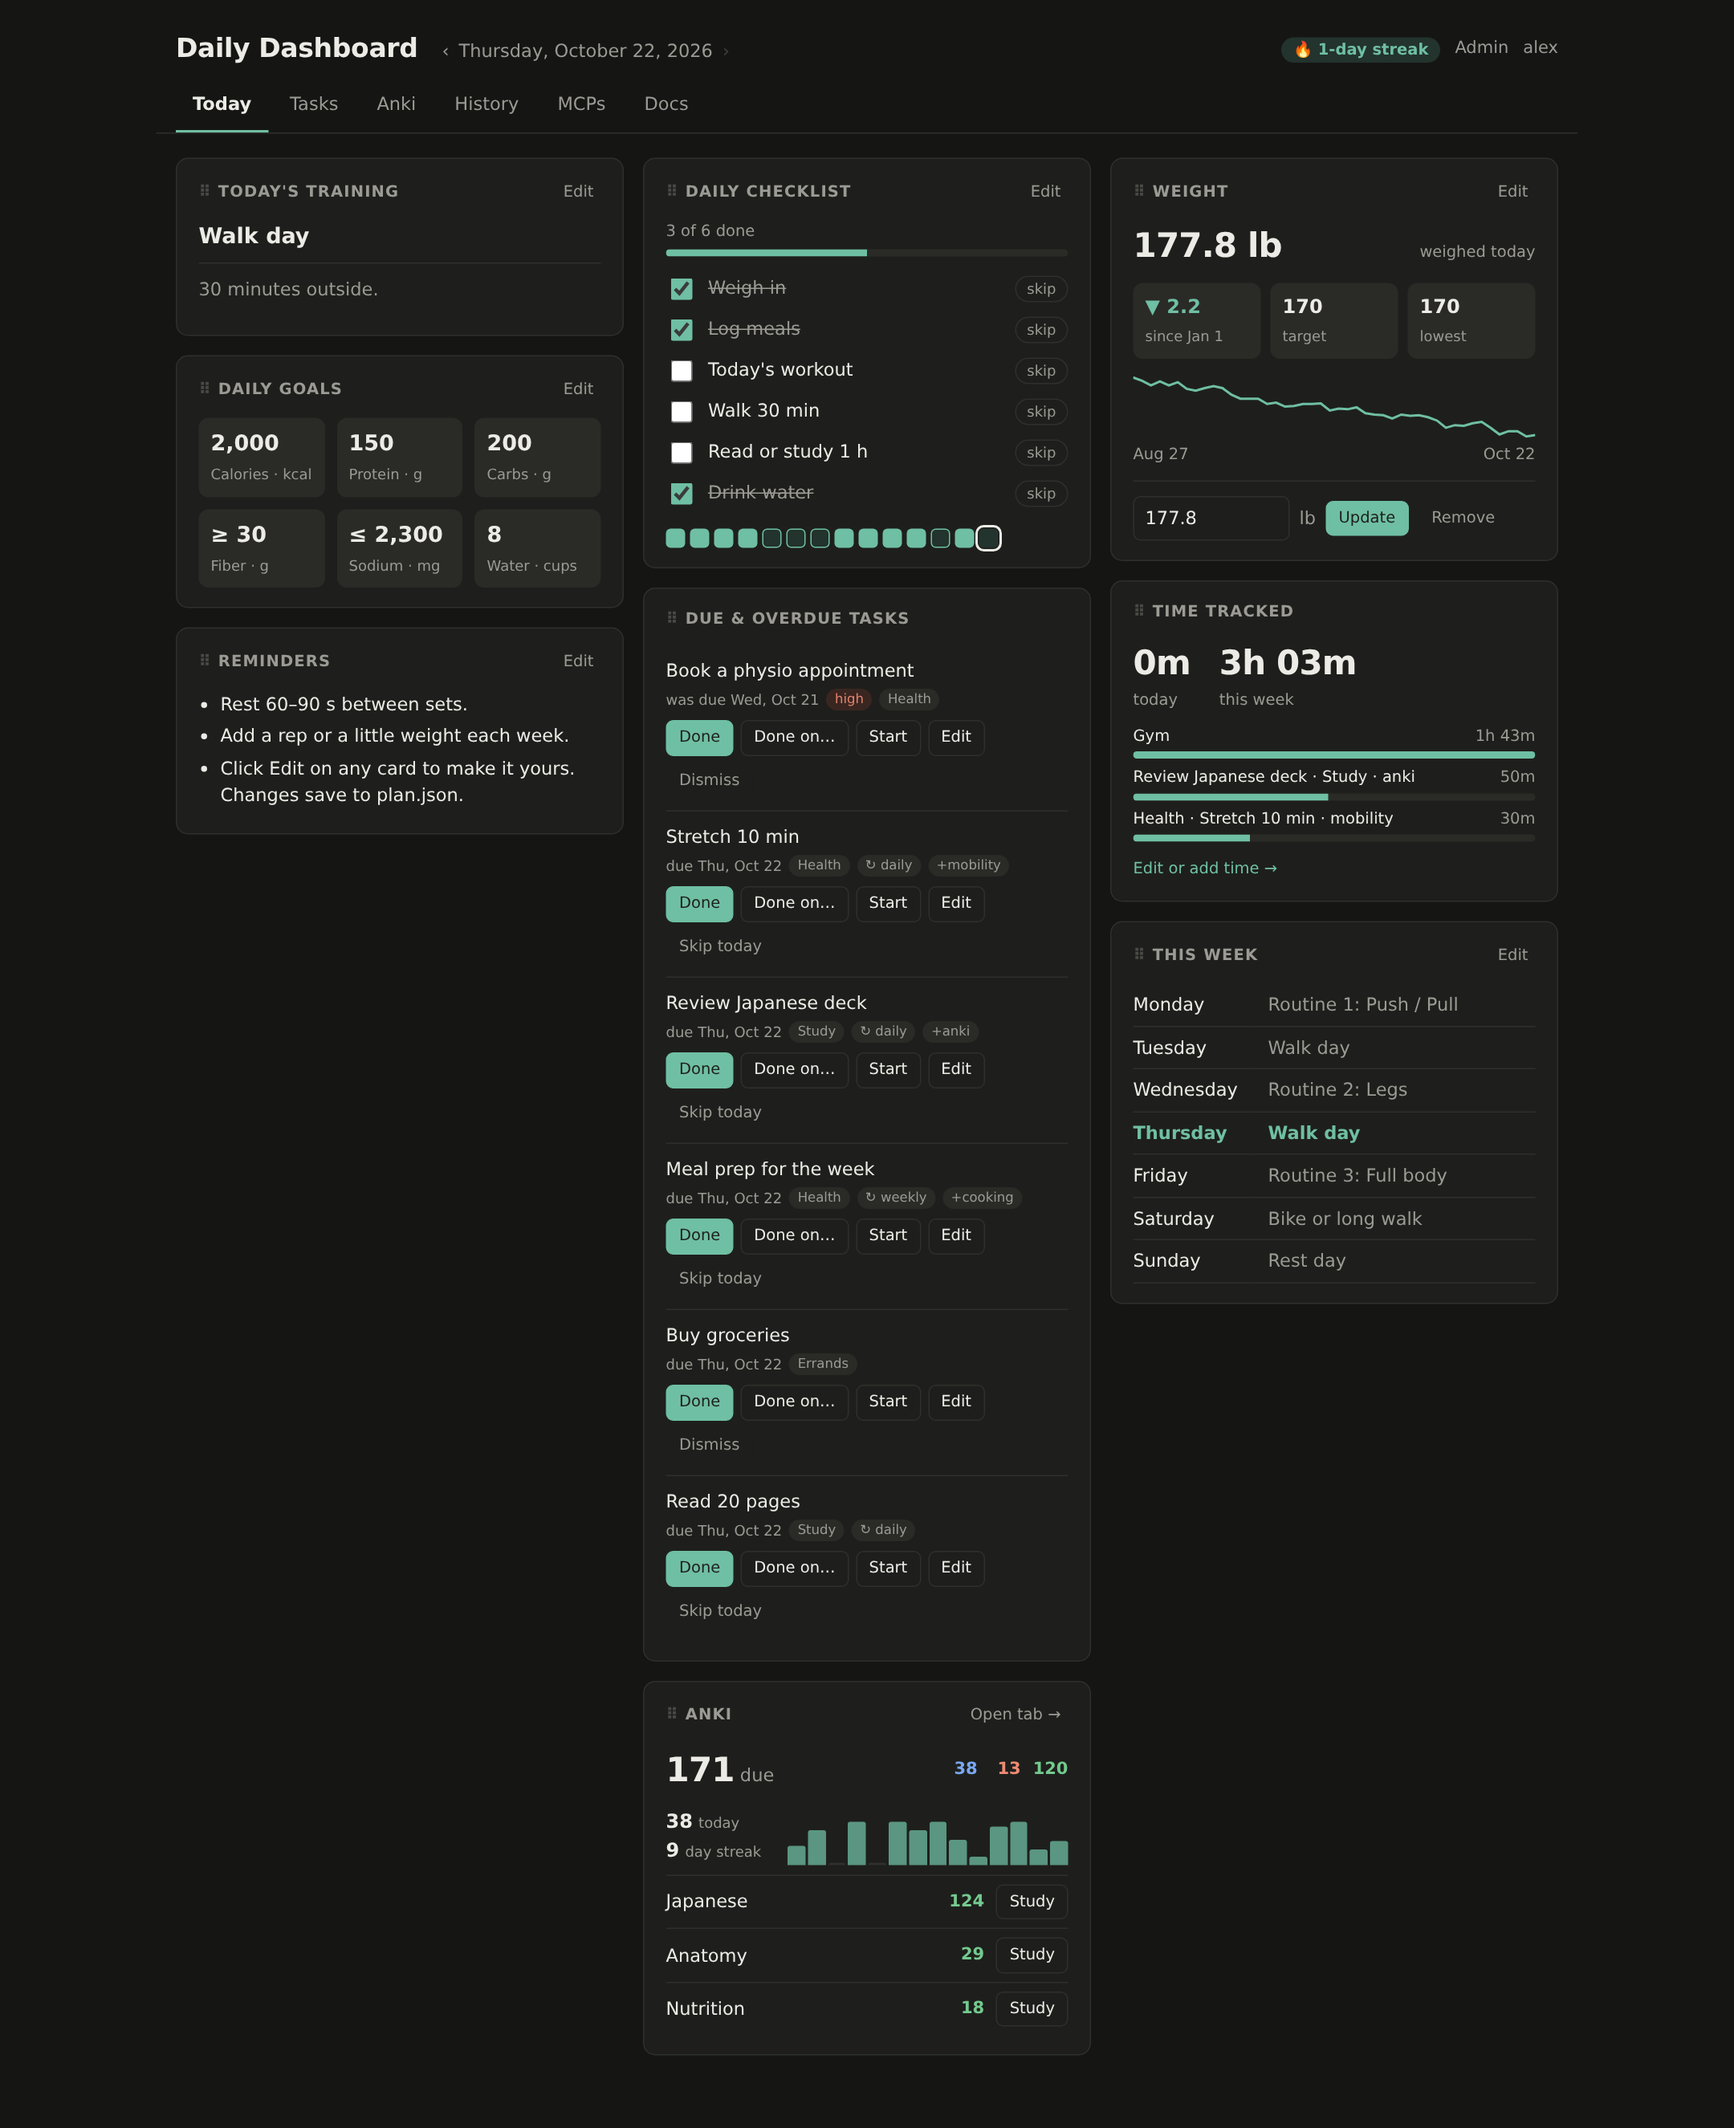
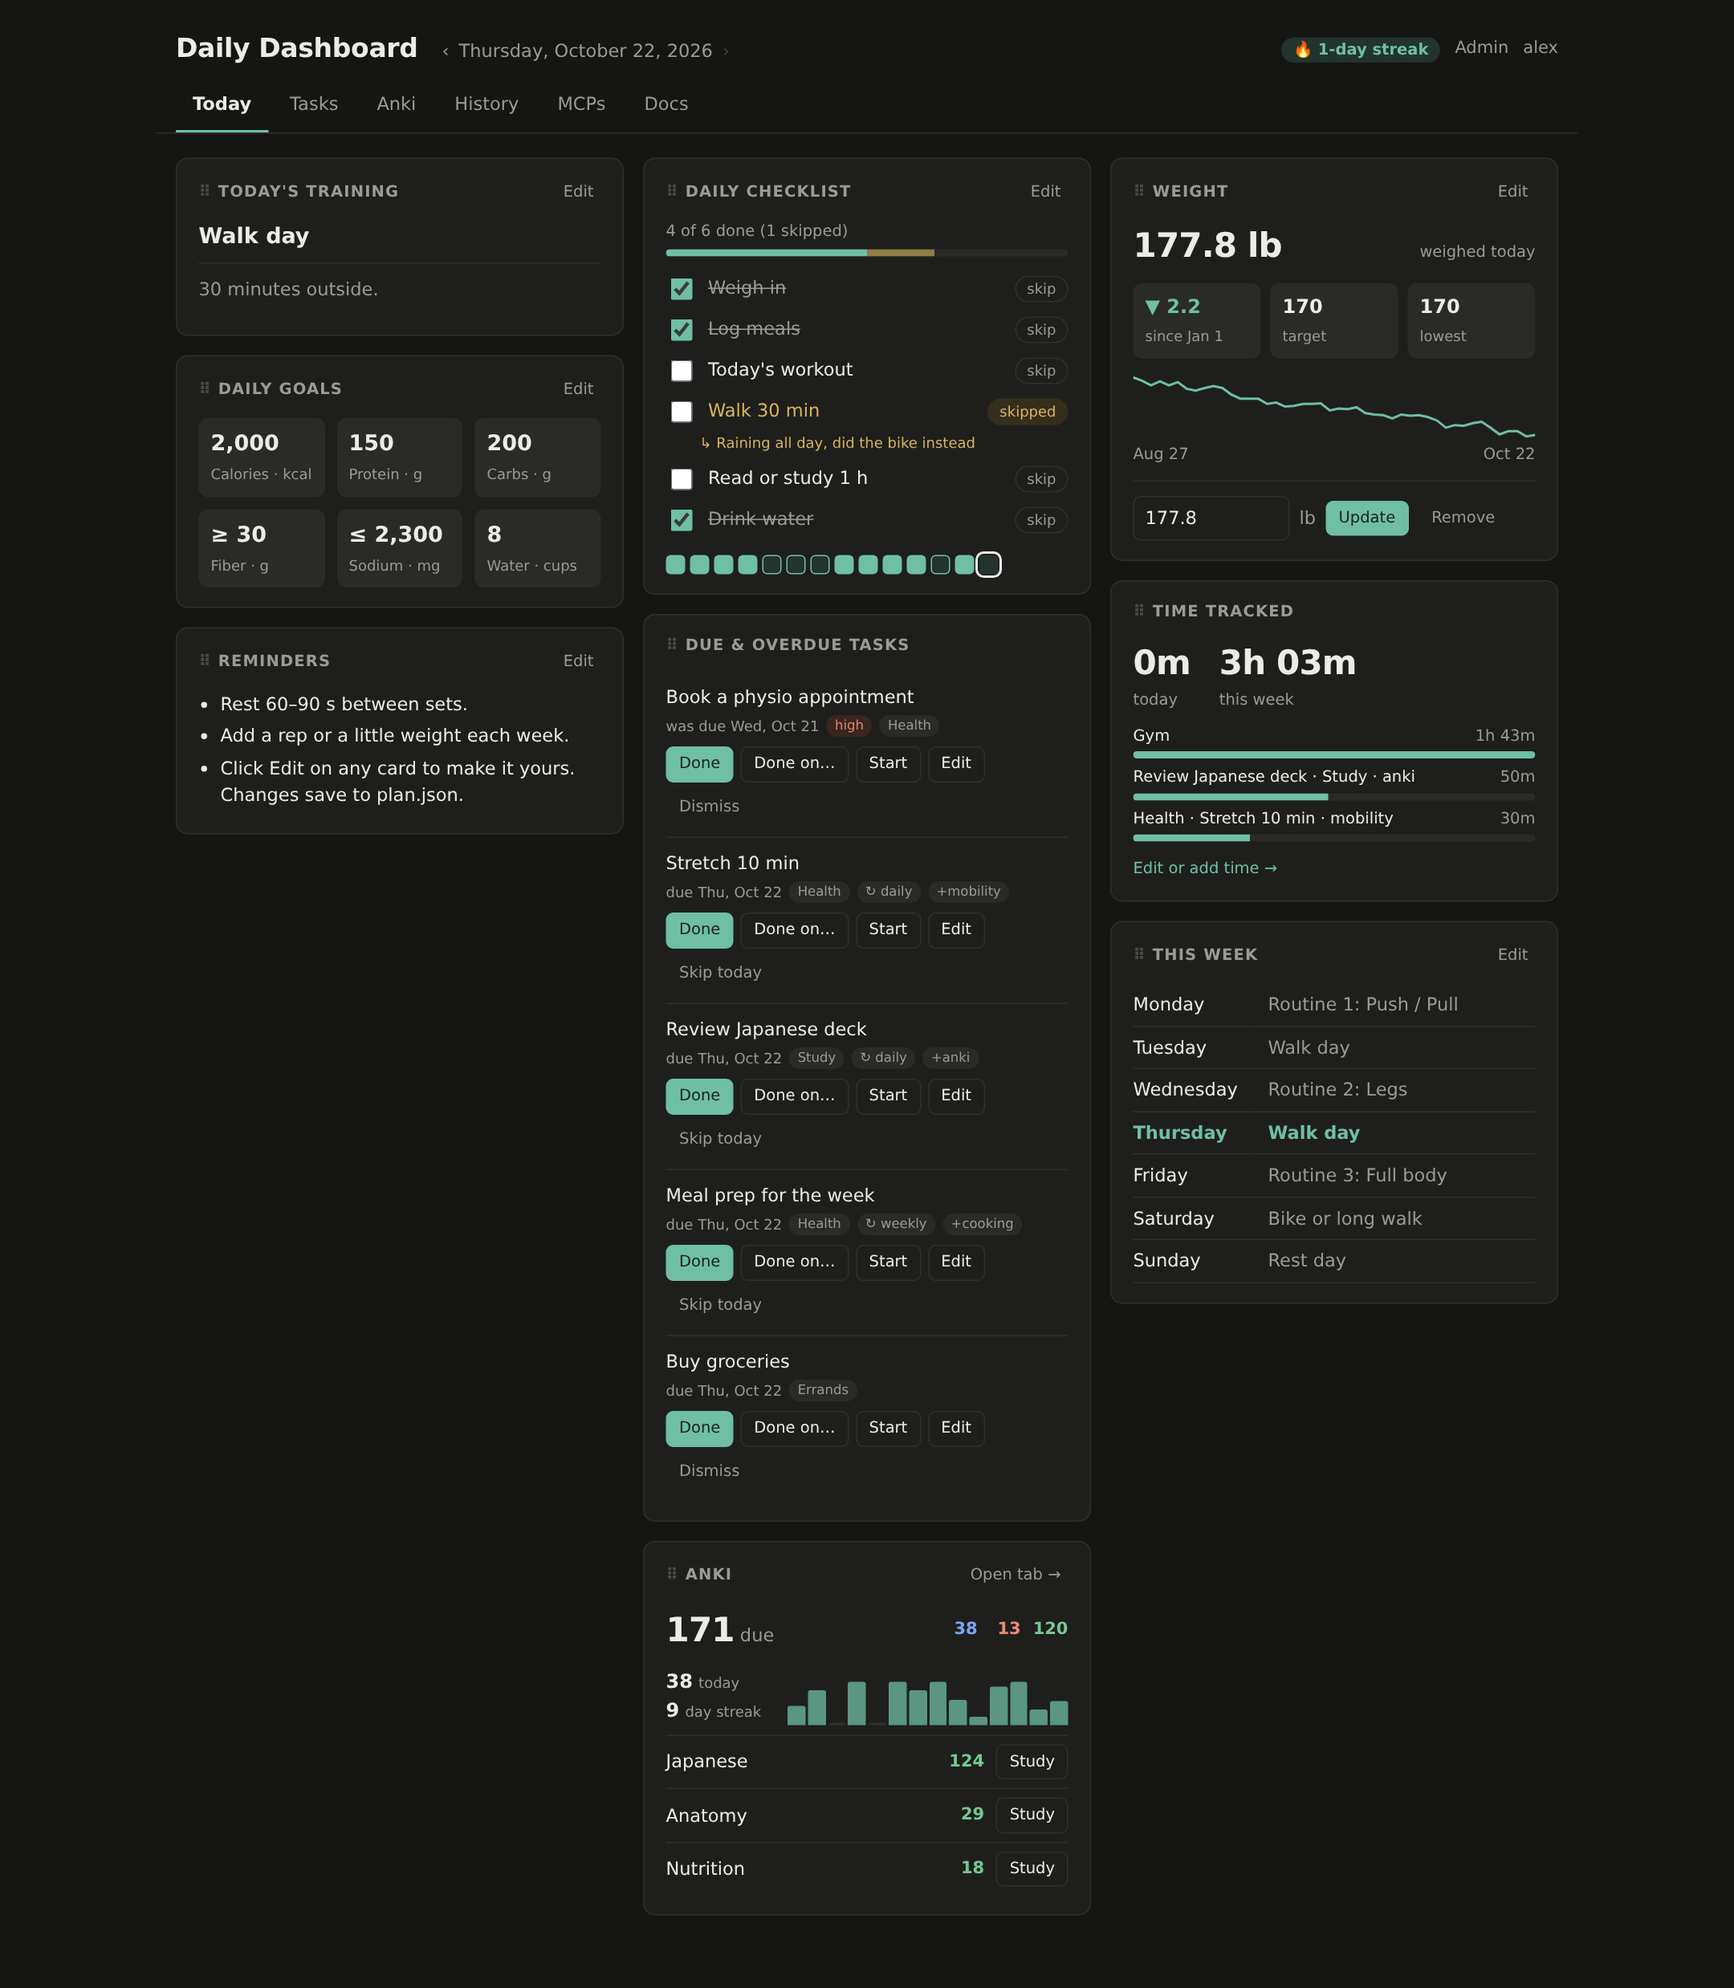
docs: one mashup of all six tabs, with a skip reason on Today
Retake the tab screenshots after skipping a checklist item and a task
with reasons in the demo account.

diff --git a/docs/README.md b/docs/README.md
@@ -2,7 +2,7 @@
 
 **Your food, workouts, tasks and flashcards in one place, with MCP support that can manage all of it.**
 
-<img src="screenshots/mashup-1.png" alt="The Today, MCPs, History and Anki tabs">
+<img src="screenshots/mashup.png" alt="The Today, Tasks, Anki, History, MCPs and Docs tabs">
 
 The screenshots use made-up data. More in [`screenshots/`](screenshots/).
 
